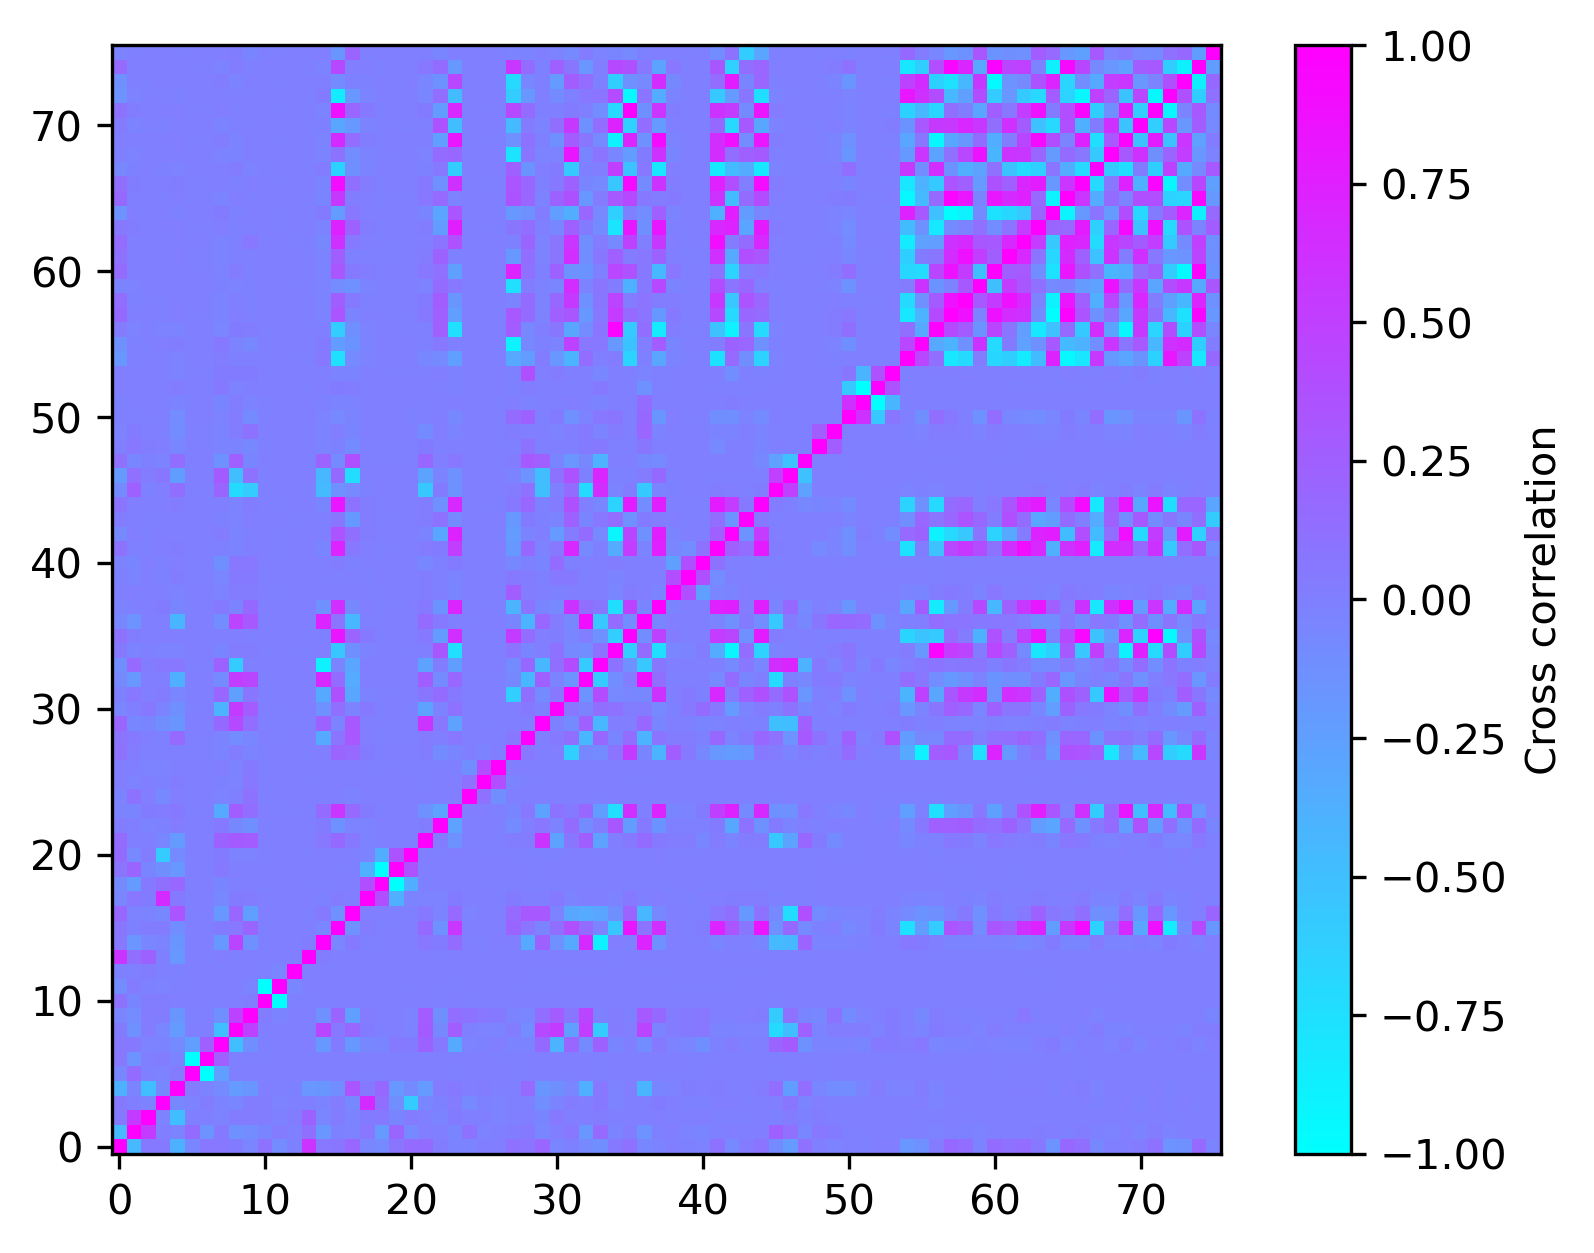
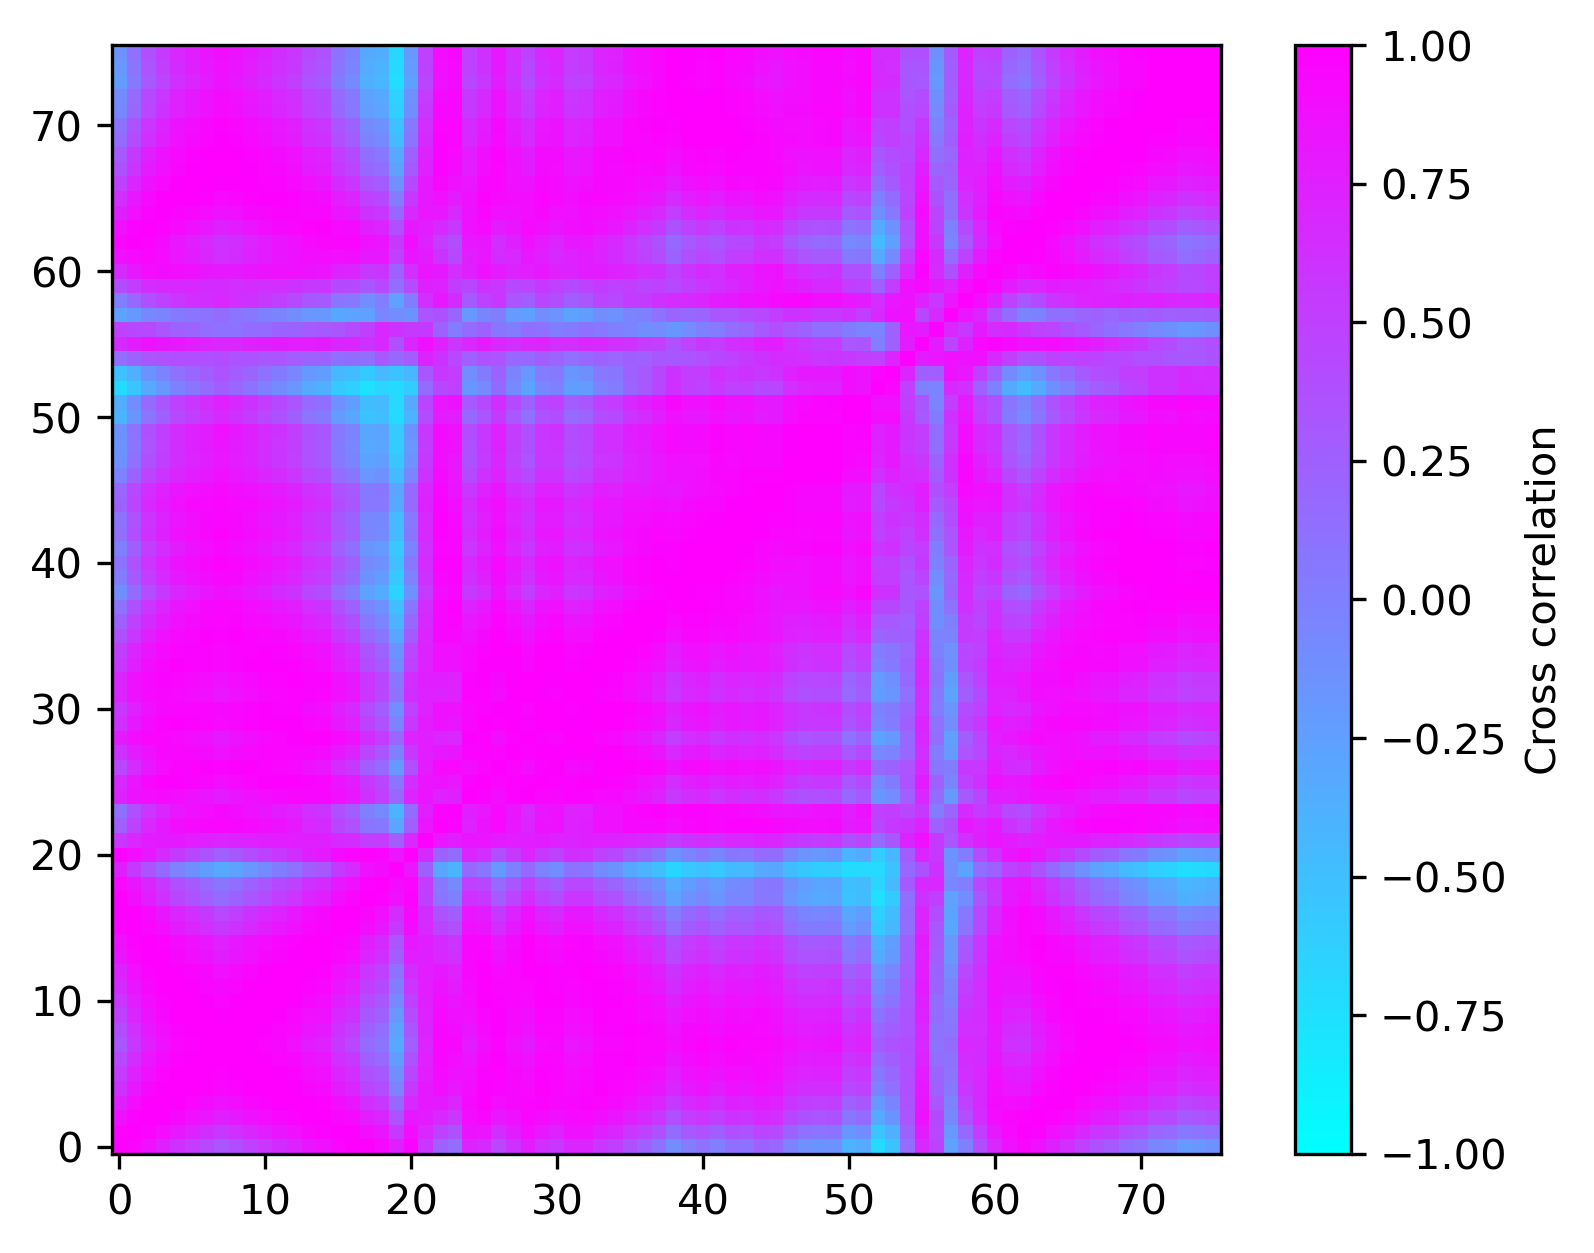
bond, angle ok

diff --git a/bin/hessian_build.py b/bin/hessian_build.py
@@ -14,7 +14,7 @@ class Hessian:
     def __init__(self,index,potential,pos,mode='bad'):
         if (mode == 'bad'):
             self.bond_index = np.sort(index[0],axis=1)
-            self.angle_index = np.sort(index[1],axis=1)
+            self.angle_index = index[1]
             self.dihedral_index = np.sort(index[2],axis=1)
             self.nonbonded_index = index[3]
             self.nonbond_par = index[4]
@@ -36,7 +36,8 @@ class Hessian:
         pos_list = []
         pos_table = distance_matrix(self.position,self.position)
         cutoff_dis_list = np.where((np.triu(pos_table,1) < cutoff) & (np.triu(pos_table,1)!=0))
-        
+
+
         # without 1-2, 1-3, 1-4 (Need careful) #
         vdw_times = tqdm(total=cutoff_dis_list[0].shape[0],ncols=100)
         for k in range(0,cutoff_dis_list[0].shape[0]):
@@ -77,15 +78,15 @@ class Hessian:
         bond_table = np.array([[xi,xi],[xi,yi],[xi,zi],[xi,xj],[xi,yj],[xi,zj],
                                [yi,yi],[yi,zi],[yi,xj],[yi,yj],[yi,zj],
                                [zi,zi],[zi,xj],[zi,yj],[zi,zj],
-                               [xj,xj],[xj,yj],[zj,zj],
+                               [xj,xj],[xj,yj],[xj,zj],
                                [yj,yj],[yj,zj],
                                [zj,zj]])
         b_t = []
-        print("Bond_element loading ")
+        print("Two body element loading ")
         bond_times = tqdm(total=bond_table.shape[0],ncols=100)
         for i,j in bond_table:
             #b_t.append(lambdify((k,b,xi,yi,zi,xj,yj,zj),(bond_potential_form.diff(i).diff(j)),'numpy'))       
-            b_t.append(lambdify((k,xi,yi,zi,xj,yj,zj),(bond_rij.diff(i)*bond_rij.diff(j)),'numpy'))
+            b_t.append(lambdify((xi,yi,zi,xj,yj,zj),(bond_rij.diff(i)*bond_rij.diff(j)),'numpy'))
             bond_times.update()
         self.bond_element = np.array(b_t)
         bond_times.close()
@@ -106,10 +107,10 @@ class Hessian:
                                 [yk,yk],[yk,zk],
                                 [zk,zk]])  
         a_t = []
-        print("Angle_element loading ")
+        print("Three body element loading ")
         angle_times = tqdm(total=angle_table.shape[0],ncols=100)
         for i,j in angle_table: 
-            a_t.append(lambdify((k,xi,yi,zi,xj,yj,zj,xk,yk,zk),(theta.diff(i).diff(j)),'numpy'))
+            a_t.append(lambdify((k,xi,yi,zi,xj,yj,zj,xk,yk,zk),(theta.diff(i)*theta.diff(j)),'numpy'))
             angle_times.update()
         self.angle_element = np.array(a_t)
         angle_times.close()
@@ -137,32 +138,13 @@ class Hessian:
                                    [yl,yl],[yl,zl],
                                    [zl,zl]])
         di_t = []
-        print("Dihedral_element loading ")
+        print("Four body element loading ")
         dihedral_times = tqdm(total=dihedral_table.shape[0],ncols=100)
         for i,j in dihedral_table:
             di_t.append(lambdify((k,b,n,xi,yi,zi,xj,yj,zj,xk,yk,zk,xl,yl,zl),(dihedral_potential_form.diff(i).diff(j)),'numpy'))
             dihedral_times.update()
         self.dihedral_element  = np.array(di_t)
         dihedral_times.close()
-
-        # nonbond (vDw) potential #
-        vdw_rij = ((xj-xi)**2+(yj-yi)**2+(zj-zi)**2)**0.5
-        vdw_potential_form = 4*k*((b/vdw_rij)**12-(b/vdw_rij)**6)
-
-        vdw_table = np.array([[xi,xi],[xi,yi],[xi,zi],[xi,xj],[xi,yj],[xi,zj],
-                               [yi,yi],[yi,zi],[yi,xj],[yi,yj],[yi,zj],
-                               [zi,zi],[zi,xj],[zi,yj],[zi,zj],
-                               [xj,xj],[xj,yj],[zj,zj],
-                               [yj,yj],[yj,zj],
-                               [zj,zj]])
-        vdw_t = []
-        print("vdw_element loading ")
-        vdw_times = tqdm(total=vdw_table.shape[0],ncols=100)
-        for i,j in vdw_table:
-            vdw_t.append(lambdify((k,b,xi,yi,zi,xj,yj,zj),(vdw_potential_form.diff(i).diff(j)),'numpy'))       
-            vdw_times.update()
-        self.vdw_element = np.array(b_t)
-        vdw_times.close()
         '''
         print("Done")
 
@@ -172,11 +154,12 @@ class Hessian:
             substitute_num = []
             for i in range(0,self.bond_element.shape[0]):
                 #substitute_num.append(self.bond_element[i](kb,bb,x1[0],x1[1],x1[2],x2[0],x2[1],x2[2]))
-                substitute_num.append(self.bond_element[i](kb,x1[0],x1[1],x1[2],x2[0],x2[1],x2[2])*kb*2)
+                substitute_num.append(self.bond_element[i](x1[0],x1[1],x1[2],x2[0],x2[1],x2[2])*kb*2)
         elif(mode=='vdw'):
             substitute_num = []
-            for i in range(0,self.vdw_element.shape[0]):
-                substitute_num.append(self.vdw_element[i](kb,bb,x1[0],x1[1],x1[2],x2[0],x2[1],x2[2]))
+            for i in range(0,self.bond_element.shape[0]):
+                substitute_num.append(self.bond_element[i](x1[0],x1[1],x1[2],x2[0],x2[1],x2[2])*
+                                      ((12*kb)/np.linalg.norm(x2-x1)**2)*(13*(bb/np.linalg.norm(x2-x1))**12-7*(bb/np.linalg.norm(x2-x1))**6))
         else:
             print("error XD")
         two_body_element = np.array([[substitute_num[0],substitute_num[1],substitute_num[2],substitute_num[3],substitute_num[4],substitute_num[5]],
@@ -192,7 +175,6 @@ class Hessian:
                                 [(m2**0.5*m1**0.5),(m2**0.5*m1**0.5),(m2**0.5*m1**0.5),(m2**0.5*m2**0.5),(m2**0.5*m2**0.5),(m2**0.5*m2**0.5)],
                                 [(m2**0.5*m1**0.5),(m2**0.5*m1**0.5),(m2**0.5*m1**0.5),(m2**0.5*m2**0.5),(m2**0.5*m2**0.5),(m2**0.5*m2**0.5)],
                                 [(m2**0.5*m1**0.5),(m2**0.5*m1**0.5),(m2**0.5*m1**0.5),(m2**0.5*m2**0.5),(m2**0.5*m2**0.5),(m2**0.5*m2**0.5)]])
-        #two_body_element[two_body_element<0] = 0
         
         return (two_body_element/mass_reduce).astype('float')
 
@@ -202,7 +184,7 @@ class Hessian:
         substitute_num = []
         
         for i in range(0,self.angle_element.shape[0]):
-            substitute_num.append(self.angle_element[i](kb,x1[0],x1[1],x1[2],x2[0],x2[1],x2[2],x3[0],x3[1],x3[2])*kb)
+            substitute_num.append(self.angle_element[i](kb,x1[0],x1[1],x1[2],x2[0],x2[1],x2[2],x3[0],x3[1],x3[2])*kb*2)
         
         three_body_element = np.array([[substitute_num[0],substitute_num[1],substitute_num[2],substitute_num[3],substitute_num[4],substitute_num[5],substitute_num[6],substitute_num[7],substitute_num[8]],
                                        [substitute_num[1],substitute_num[9],substitute_num[10],substitute_num[11],substitute_num[12],substitute_num[13],substitute_num[14],substitute_num[15],substitute_num[16]],
@@ -224,7 +206,6 @@ class Hessian:
                                 [(m1**0.5*m3**0.5),(m1**0.5*m3**0.5),(m1**0.5*m3**0.5),(m2**0.5*m3**0.5),(m2**0.5*m3**0.5),(m2**0.5*m3**0.5),(m3**0.5*m3**0.5),(m3**0.5*m3**0.5),(m3**0.5*m3**0.5)],
                                 [(m1**0.5*m3**0.5),(m1**0.5*m3**0.5),(m1**0.5*m3**0.5),(m2**0.5*m3**0.5),(m2**0.5*m3**0.5),(m2**0.5*m3**0.5),(m3**0.5*m3**0.5),(m3**0.5*m3**0.5),(m3**0.5*m3**0.5)]])
 
-        #three_body_element[three_body_element<0] = 0
         return (three_body_element/mass_reduce).astype('float')
 
     def second_deriavete_element_four_body(self,kb,bb,nn,m1,m2,m3,m4,x1,x2,x3,x4,mode='dihedral'): 
@@ -273,27 +254,26 @@ class Hessian:
     def build_matrix(self):
         # second deriavete element #
         self.element_initialization()
-        # 
-        #self.check_distance2vdw(cutoff=5)
+        
+        # Found Pairwise #
+        self.check_distance2vdw(cutoff=5)
 
         # initial hessian matrix #
         hm = np.zeros((self.mass_type.shape[0]*3,self.mass_type.shape[0]*3))
-        print(self.bond_index)
+
         num_cout = 0
         print("Build bond potential")
         bond_times = tqdm(total=self.bond_index.shape[0],ncols=100)
-        print(self.bond_index)
         for i,j in self.bond_index*3:
-
             k_n = self.second_deriavete_element_two_body(self.bond_par[num_cout,0],self.bond_par[num_cout,1],
                                                          self.mass_type[int(i/3)],self.mass_type[int(j/3)],
                                                          self.position[int(i/3)],self.position[int(j/3)])
+            
             hm[np.ix_([i,i+1,i+2,j,j+1,j+2],[i,i+1,i+2,j,j+1,j+2])] += k_n
-
             bond_times.update(1)
             num_cout += 1
         bond_times.close()
-        '''
+        
         print("Build angle potential")
         num_cout = 0
         angle_times = tqdm(total=self.angle_index.shape[0],ncols=100)
@@ -309,7 +289,7 @@ class Hessian:
             num_cout += 1
         angle_times.close()
 
-        
+        '''
         print("Build dihedral potential")
         num_cout = 0
         dihedral_times = tqdm(total=self.dihedral_index.shape[0],ncols=100)
@@ -325,7 +305,7 @@ class Hessian:
             dihedral_times.update(1)
             num_cout += 1
         dihedral_times.close()
-
+        '''
         
         print("Build vdw potential")
         num_cout = 0
@@ -335,12 +315,12 @@ class Hessian:
                                                          self.mass_type[int(i/3)],self.mass_type[int(j/3)],
                                                          self.position[int(i/3)],self.position[int(j/3)],
                                                          mode='vdw')
-            hm[np.ix_([i,i+1,i+2,j,j+1,j+2],[i,i+1,i+2,j,j+1,j+2])] += k_vn*6.9477e-3
+            hm[np.ix_([i,i+1,i+2,j,j+1,j+2],[i,i+1,i+2,j,j+1,j+2])] += k_vn
             
             vdw_times.update(1)
             num_cout += 1
         vdw_times.close()
-        '''
+        
         print("Symmetric matrix: {}".format(self.check_symmetric(hm)))
         print("Determinant: {}".format(np.linalg.det(hm)>0))
         print("Hessian mattrix builded")
@@ -349,7 +329,7 @@ class Hessian:
     def solve_Hessian(self,h):
        print("Solve eignvalue and eignvector")
        h_val, h_vec = jax.numpy.linalg.eigh(h)
-       print("Positive matrix: {}".format(len(np.where(h_val<-1))==0))
+       print("Positive matrix: {}".format(len(np.where(h_val<-1)[0])==0))
        print("Done")
        return h_val, h_vec
 

diff --git a/main.py b/main.py
@@ -26,18 +26,18 @@ if __name__ == '__main__':
     model_potential = potent.parameter_table()
     
     # Energy minimization #
-    #em_pos = energy_minimze.min(topology,bonding)
-    init_pos = model_info.get_position()
+    em_pos = energy_minimze.min(topology,bonding)
+    #init_pos = model_info.get_position()
     # build hessian matrix #
     
-    #hessian_ = hessian_build.Hessian(model_index,model_potential,em_pos)
-    hessian_ = hessian_build.Hessian(model_index,model_potential,init_pos)
+    hessian_ = hessian_build.Hessian(model_index,model_potential,em_pos)
+    #hessian_ = hessian_build.Hessian(model_index,model_potential,init_pos)
     
     hessian_martix = hessian_.build_matrix()
 
     # solve eigenvalue and eigenvector #
     eignvalue,eignvector = hessian_.solve_Hessian(hessian_martix)
-    print(eignvalue)
+
     # calculate dynamics coupling #
     dc = correlation.dynamics_coupling(eignvalue,eignvector,ca_table=ca_index)
     dc.run(reduce=True,ccm = True)
